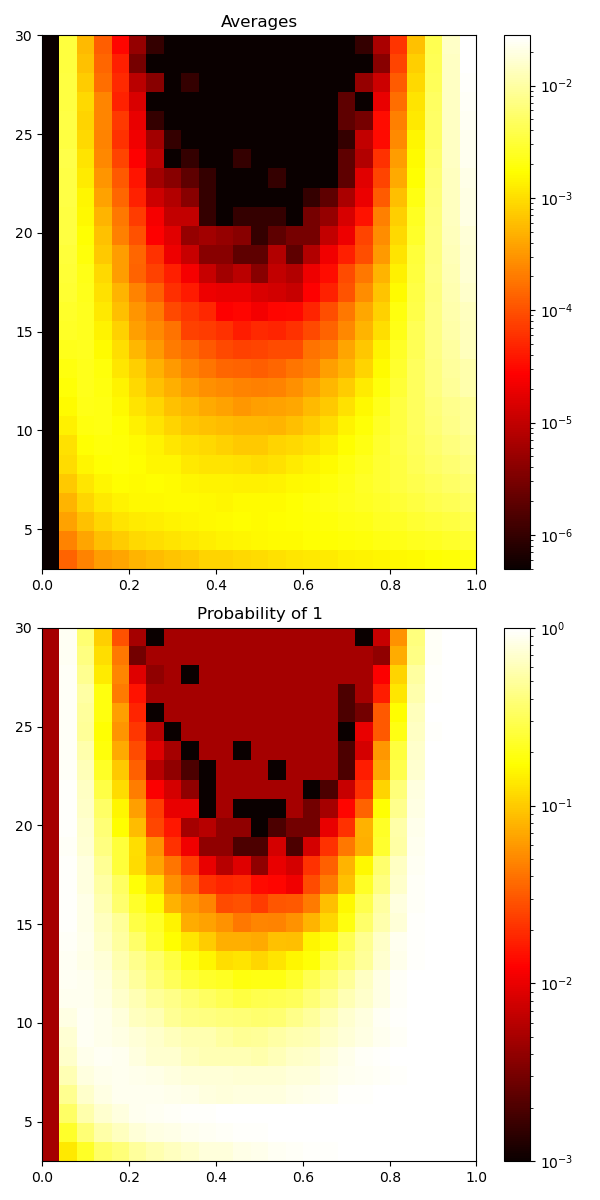
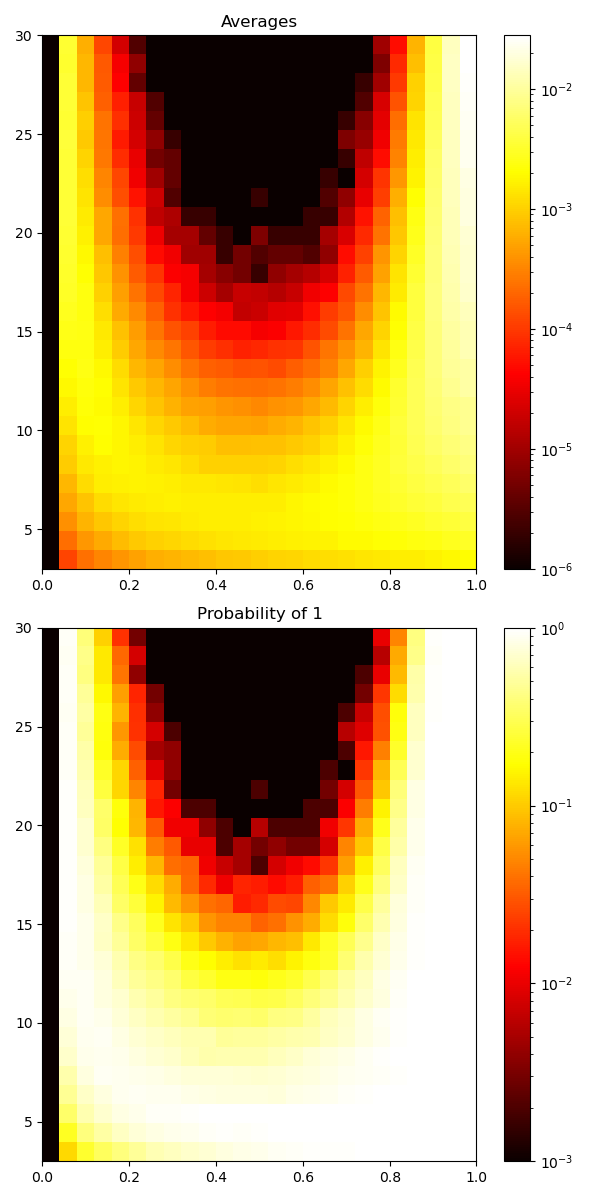
Fig 3, NS sizes

diff --git a/Python/NoiselessSubsystems.py b/Python/NoiselessSubsystems.py
@@ -3,8 +3,11 @@ from matplotlib import pyplot as plt
 from matplotlib import colors as cl
 from common import *
 
-N = np.linspace(30, 3, 28, dtype=int)
+N = np.linspace(30, 3, 27, dtype=int)
 P = np.linspace(0, 1, 25, dtype=float)
+N_dense = np.linspace(30, 3, 270, dtype=float)
+
+P_start = 0
 
 It = 1000
 
@@ -13,6 +16,7 @@ ratios2 = []
 min_ = 1
 min2 = 1
 
+# Calculate the probability of 1 NC and the fraction of NCs
 for i, n in enumerate(N):
     row = []
     row2 = []
@@ -47,6 +51,7 @@ for i, n in enumerate(N):
     ratios.append(row)
     ratios2.append(row2)
 
+# Set all zero values to the minimum nonzero value
 for i, r in enumerate(ratios):
     for j in range(len(r)):
         if r[j] == 0:
@@ -57,19 +62,24 @@ for i, r in enumerate(ratios2):
         if r[j] == 0:
             r[j] = min2
 
+# Turn them into numpy arrays
+ratios = np.array(ratios)
+ratios2 = np.array(ratios2)
 
-extent = [P[0], P[-1], N[-1], N[0]]
+# Add the critical probability as a function of N
+P_C = np.log(N_dense)/N_dense
+
+extent = [P[P_start], P[-1], N[-1], N[0]]
 im_args = {"cmap": "hot", "interpolation": "nearest", "extent": extent, "aspect": "auto"}
 
 fig, ax = plt.subplots(2, 1, figsize=(6, 12))
-im2 = ax[0].imshow(ratios2, **im_args, norm=cl.LogNorm())
+im2 = ax[0].imshow(ratios2[:, P_start:], **im_args, norm=cl.LogNorm())
 ax[0].set_title("Averages")
-# ax[0].set_xlim(P[0], P[-1])
-# ax[0].set_ylim(N[-1], N[0])
 fig.colorbar(im2, ax=ax[0])
 
-im = ax[1].imshow(ratios, **im_args, norm=cl.LogNorm())
+im = ax[1].imshow(ratios[:, P_start:], **im_args, norm=cl.LogNorm())
 ax[1].set_title("Probability of 1")
+ax[1].plot(P_C, N_dense, color="green", linestyle="--")
 fig.colorbar(im, ax=ax[1])
 
 plt.show()

diff --git a/Python/NoiselessSizes.py b/Python/NoiselessSizes.py
@@ -1,0 +1,26 @@
+from common import *
+import matplotlib.pyplot as plt
+
+p1 = .05
+N = 15
+nx.laplacian_matrix(random_graph(N, p1)).toarray()
+
+column_labels = list('ABCD')
+row_labels = list('WXYZ')
+data = np.random.rand(N,N)
+fig, ax = plt.subplots()
+heatmap = ax.pcolor(data, cmap=plt.cm.Blues, edgecolor='white', linewidths=5)
+
+# put the major ticks at the middle of each cell
+ax.set_xticks(np.arange(data.shape[0])+0.5, minor=False)
+ax.set_yticks(np.arange(data.shape[1])+0.5, minor=False)
+
+ax.set_aspect('equal')
+
+# want a more natural, table-like display
+ax.invert_yaxis()
+ax.xaxis.set_label_position('top') # <-- This doesn't work!
+
+ax.set_xticklabels(row_labels, minor=False)
+ax.set_yticklabels(column_labels, minor=False)
+plt.show()
